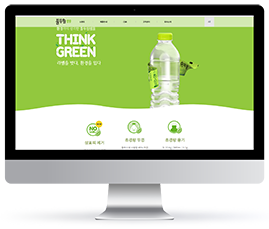
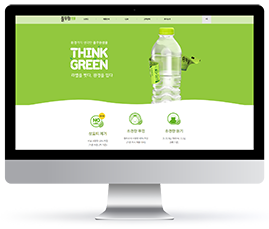
21.12.13

Changed region(s): [[0.0297, 0.0611, 0.9517, 0.6725], [0.5948, 0.4891, 0.7138, 0.6725]]

diff --git a/work/rede1/redesign.html b/work/rede1/redesign.html
@@ -50,16 +50,19 @@
 </head>
 <body>
     <header class="header">
-        <a href="../rede2">이전</a>
-        <a href="design.html" target="_blank">work view</a>
-        <a href="../redesign2/process.html">다음</a>
-    </header>
-    <img src="process_1.png" alt="" data-aos="fade-up" data-aos-delay="500">
-    <img src="process_2.png" alt="" data-aos="fade-up" data-aos-delay="500">
-    <img src="process_3.png" alt="" data-aos="fade-up" data-aos-delay="500">
-    <img src="process_4.png" alt="" data-aos="fade-up" data-aos-delay="500">
-    <img src="process_5.png" alt="" data-aos="fade-up" data-aos-delay="500">
-    <img src="process_6.png" alt="" data-aos="fade-up" data-aos-delay="500">
-    <img src="process_7.png" alt="" data-aos="fade-up" data-aos-delay="500">
+        <header class="header">
+
+            <div class="headermenu">
+                <a href="../rede1/redesign.html" class="prev">
+                    <img src="bt_prev.png" alt="">
+                </a>
+                <a href="redesign.html" target="_blank" class="view">View Redesign</a>
+                <a href="../rede1/redesign.html" class="next">
+                    <img src="bt_next.png" alt="">
+                </a>
+            </div>
+    
+        </header>
+        <img src="" alt="" data-aos="fade-down" data-aos-delay="300">
 </body>
 </html>

diff --git a/css/main.css b/css/main.css
@@ -555,10 +555,12 @@ body {
     left: 50%;
     transform: translateX(-50%);
     display: block;
+    width: 26.8rem;
     font-size: 1.5rem;
     font-weight: 400;
     letter-spacing: -0.025rem;
     color: #fff;
+    text-align: center;
     opacity: 0;
     transition: opacity 0.5s;
 }
